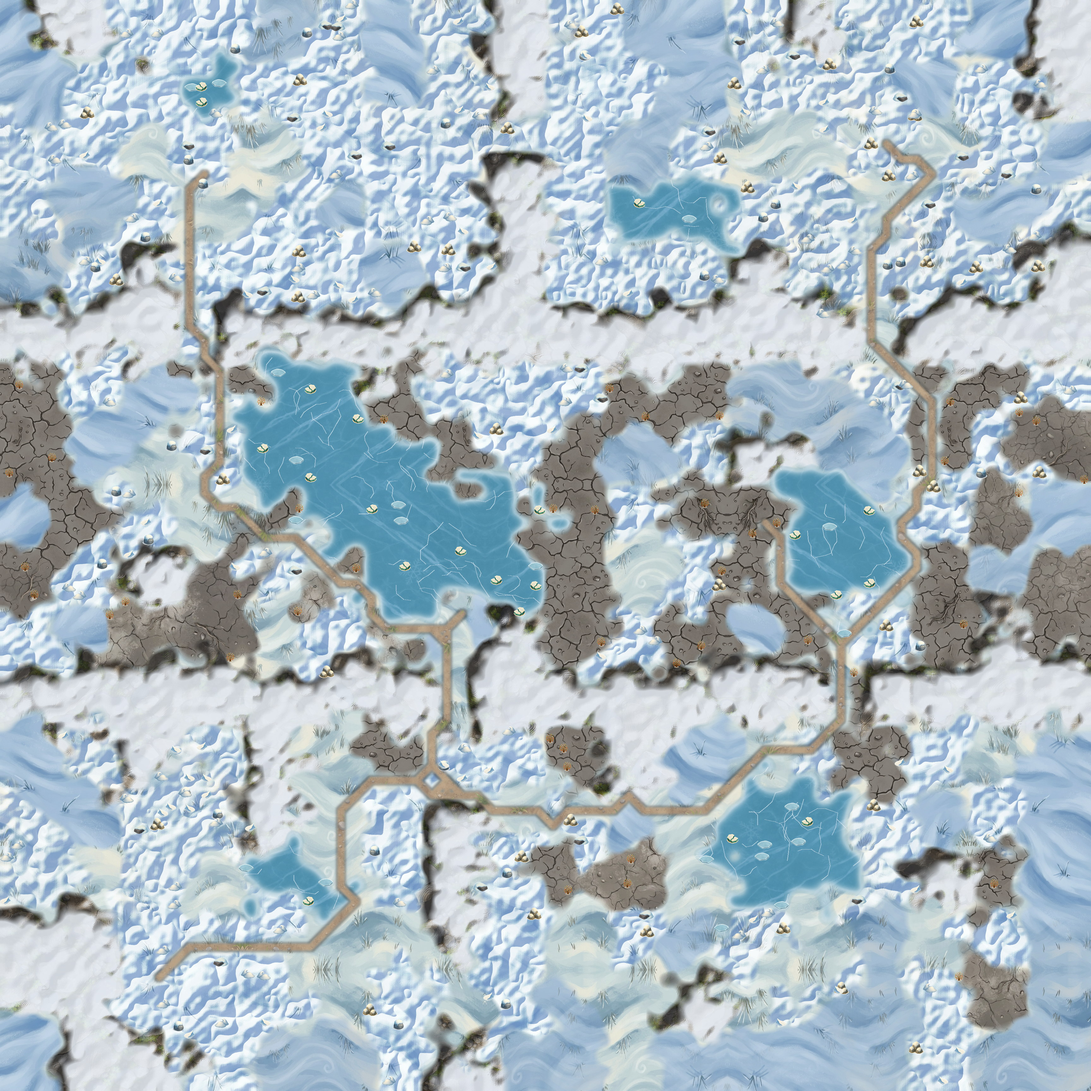
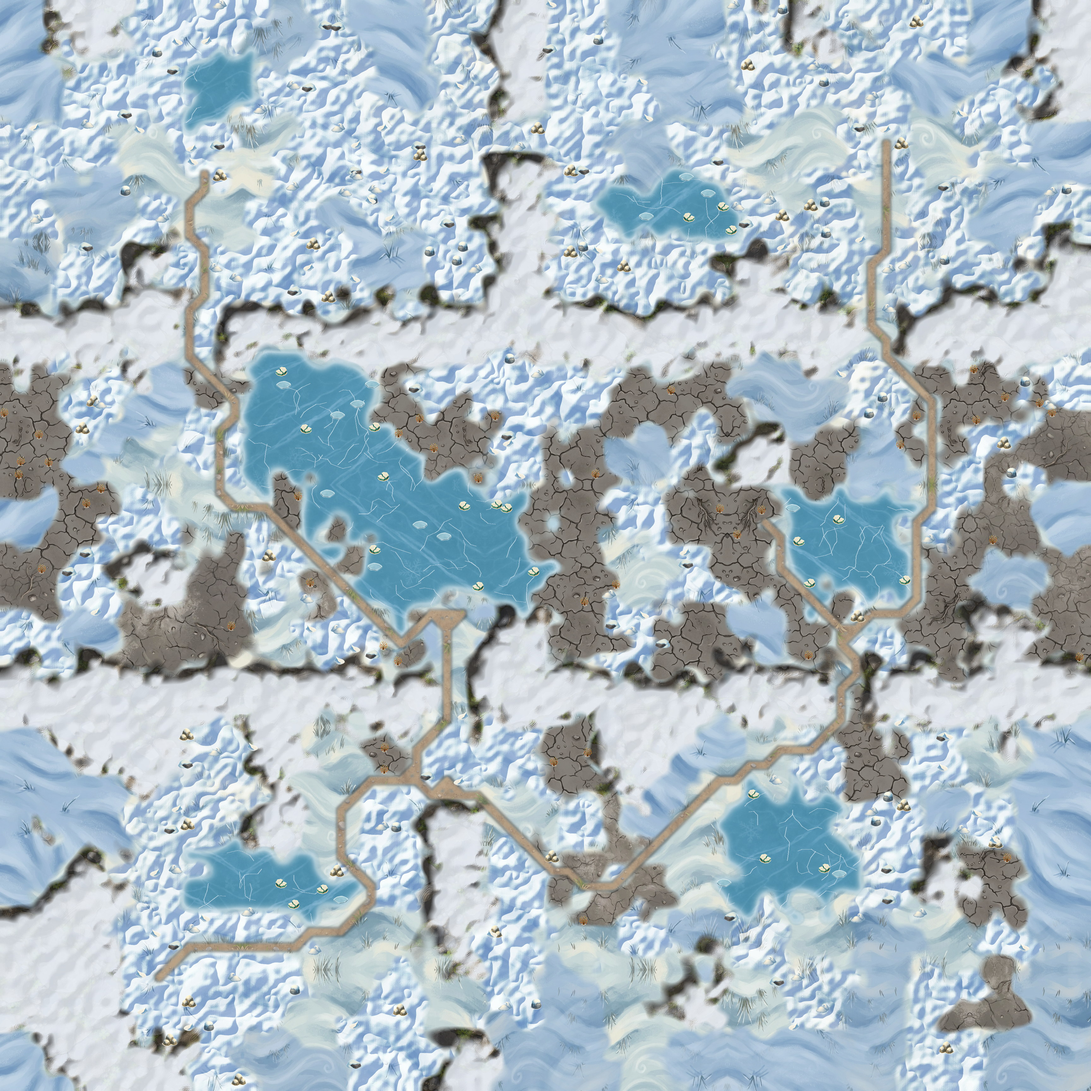
Bagna, runda 3: krytyk wybiera wzorzec — dół kadru to ściana dekoracji bez drogi
Claude-Session: https://claude.ai/code/session_01Qu47Qn6gy3U54smkJJnCXL

diff --git a/tools/mapy/twierdza.py b/tools/mapy/twierdza.py
@@ -160,9 +160,9 @@ def rozstaw(g):
     kadr = g.kadr_startu()
     sx, sy = PUNKTY['start']
     dalej = [p for p in kadr if max(abs(p[0] - sx), abs(p[1] - sy)) >= 4]
-    # Sad nie rośnie w zaspie: kopalnię jagód stawiamy tylko tam, gdzie
-    # wokół nie ma śniegu (runda 2: „jabłonie obok zasp").
-    g.dodaj_najpierw('dom', lambda p: ('kopalnia', 'jagoda'), bez_sniegu(g, kadr), bez_sniegu(g, g.wolne_pola('dom', (3, 20))))
+    # Runda 2: „jabłonie obok zasp" — dziś sad w zestawie `zima` to
+    # zaśnieżony spichlerz jagód bez liści, więc może stać w śniegu, w kadrze.
+    g.dodaj_najpierw('dom', lambda p: ('kopalnia', 'jagoda'), kadr, bez_sniegu(g, g.wolne_pola('dom', (3, 20))))
     g.dodaj_najpierw('dom', lambda p: ('kopalnia', 'odlamek'), kadr, None, (3, 14))
     g.dodaj_najpierw('dom', lambda p: ('budynek', 'ognisko'), kadr, None, (2, 16))
     g.dodaj_najpierw('dom', lambda p: ('budynek', 'chatka'), kadr, None, (2, 16))
@@ -301,7 +301,9 @@ WODA_ANIMOWANA = False
 #: Runda 2 po ślepym porównaniu ("śnieg to blada mgła, lód to błyskawica"):
 #: zaspy z niebieskim cieniem i iskrami, lód z rysami zamiast tafli wody,
 #: droga z brzegiem, las w zwartych masach, gęsty pierwszy ekran.
-EFEKTY = ['zaspy', 'lod', 'obwodka_drogi', 'relief_sniezny', 'bez_placow']
+#: Runda 3: bez efektu `lod` — jego rysy na turkusowym lodzie (`lod-2`) znów
+#: czytały się jak „błyskawice"; tekstura ma własne, delikatne pęknięcia.
+EFEKTY = ['zaspy', 'obwodka_drogi', 'relief_sniezny', 'bez_placow']
 TEKSTURY = {'woda': ['lod-2', 'lod', 'snieg'], 'trawa': ['snieg-2', 'snieg'], 'las': ['snieg']}
 SKUP_LAS = True
 RAMKA_STARTU = True
@@ -315,6 +317,6 @@ ODSTEP_KADRU = 3
 NAKLEJKI = [
     (['glaz-sniezny-1', 'glaz-sniezny-2', 'glaz-sniezny-3'], 's', 0.06),
     (['zaspa-1', 'zaspa-2'], 's', 0.08),
-    (['kra-lodu-1', 'kra-lodu-2'], '~', 0.10),
+    (['kra-lodu-2'], '~', 0.04),
     (['krzak-zimowy-1'], 'j', 0.08),
 ]
